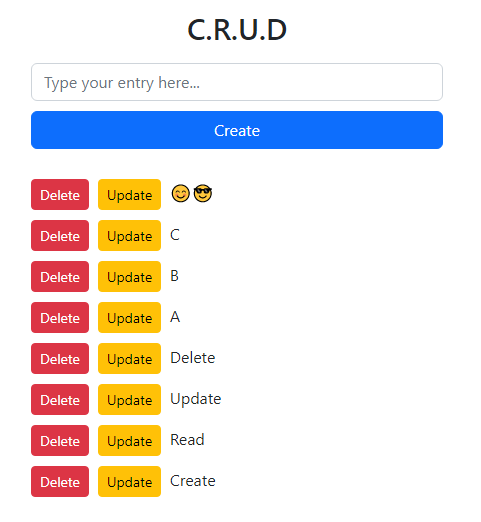
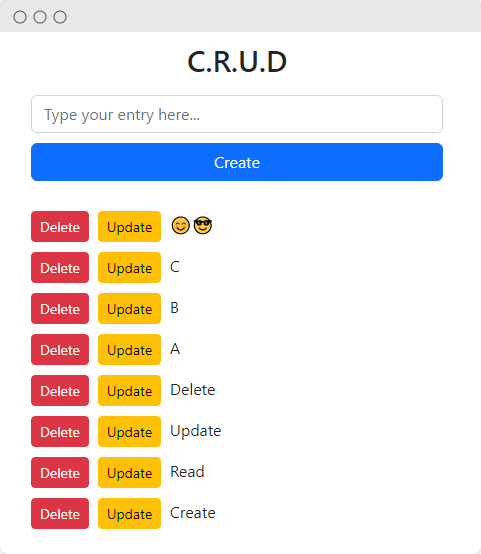
README.md added

diff --git a/README.md b/README.md
@@ -1,0 +1,14 @@
+<img align="left" width="60" height="60" src="pb_public/favicon.ico" alt="Automate Tasks Icon">
+
+# Pocketbase C.R.U.D
+An example of a Create, Read, Update, Delete (CRUD) web app themed with [bootstrap](https://getbootstrap.com/) and using the  [pocketbase](https://github.com/pocketbase/pocketbase) backend.
+
+<br />
+
+<img width="300" src="screenshot.png" alt="Automate Tasks Icon">
+
+<br />
+
+## Resources
+- [Icon](https://www.icons101.com/icon/id_83391/setid_3024/Geoit_Two_Dock_Icons_by_turkerinanmaz/Notes)
+- [Screely](https://www.screely.com/)
